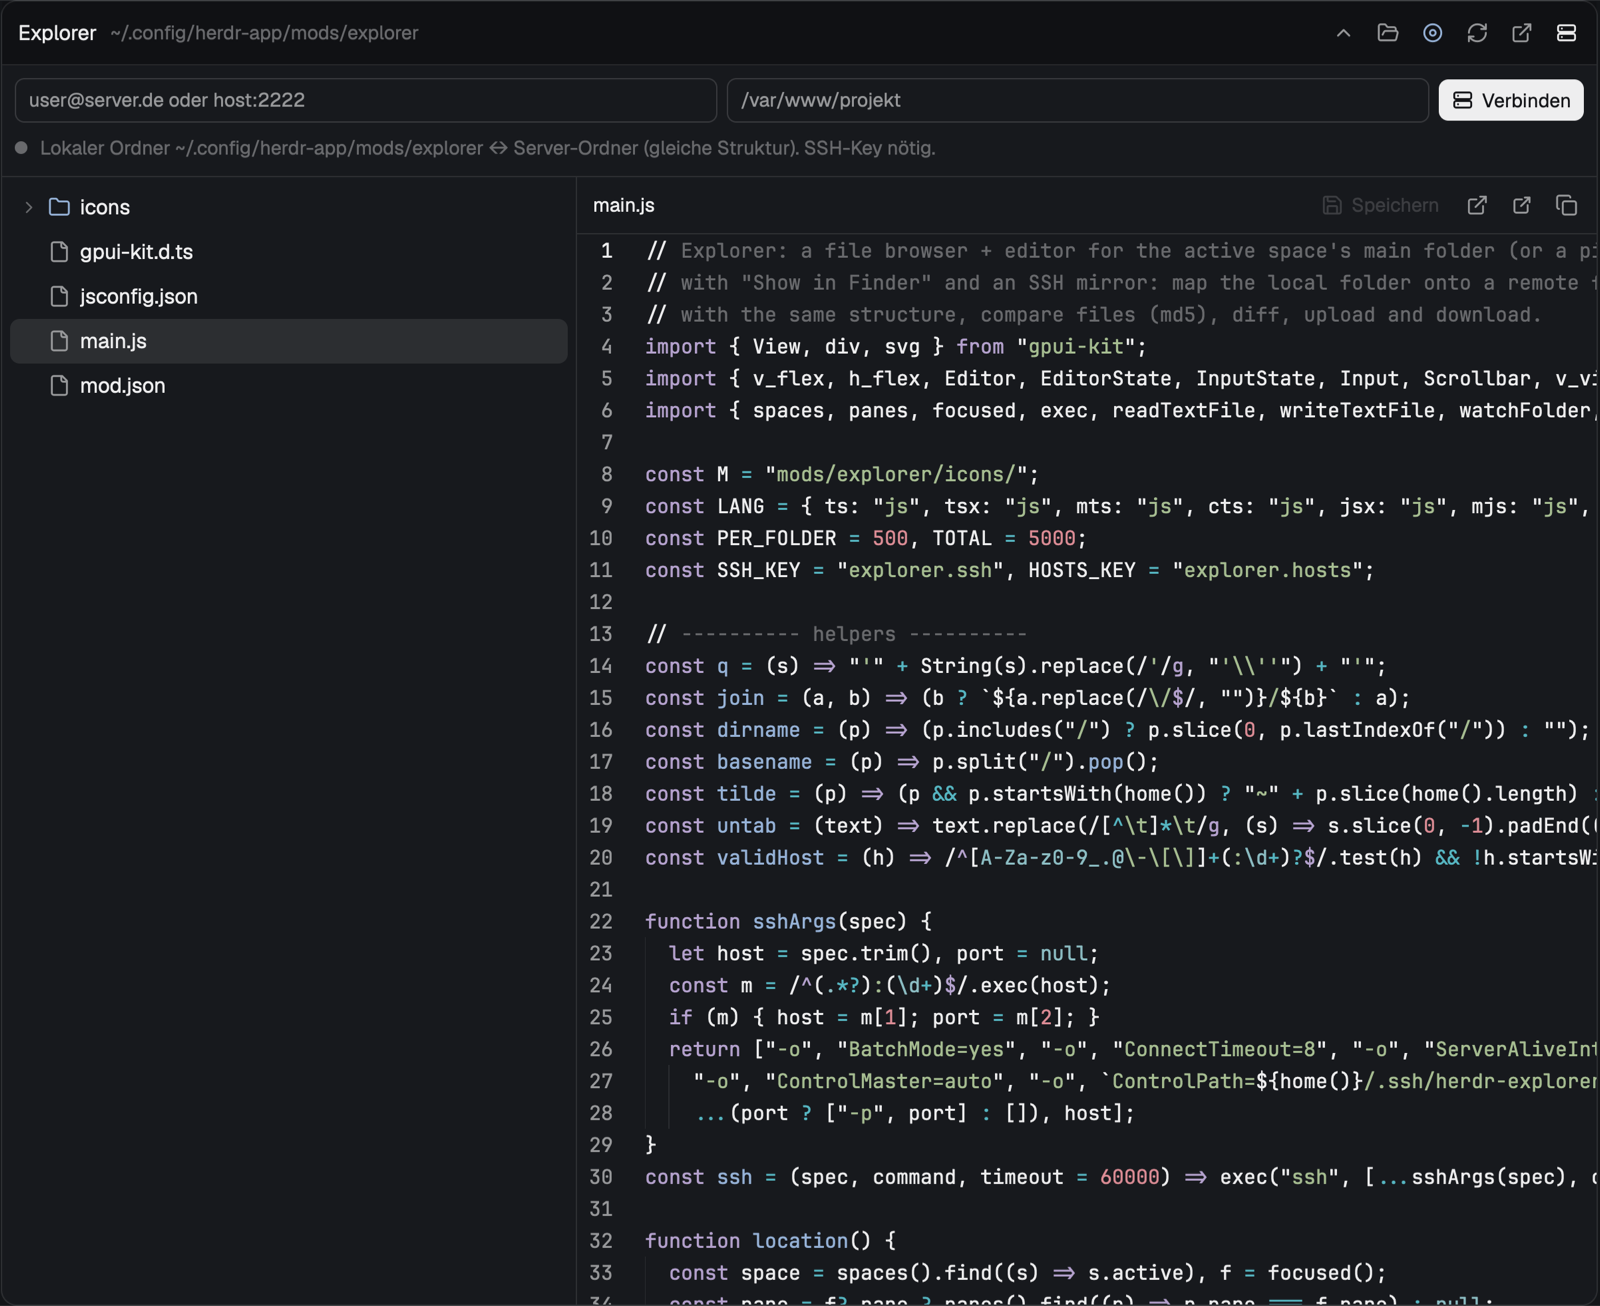
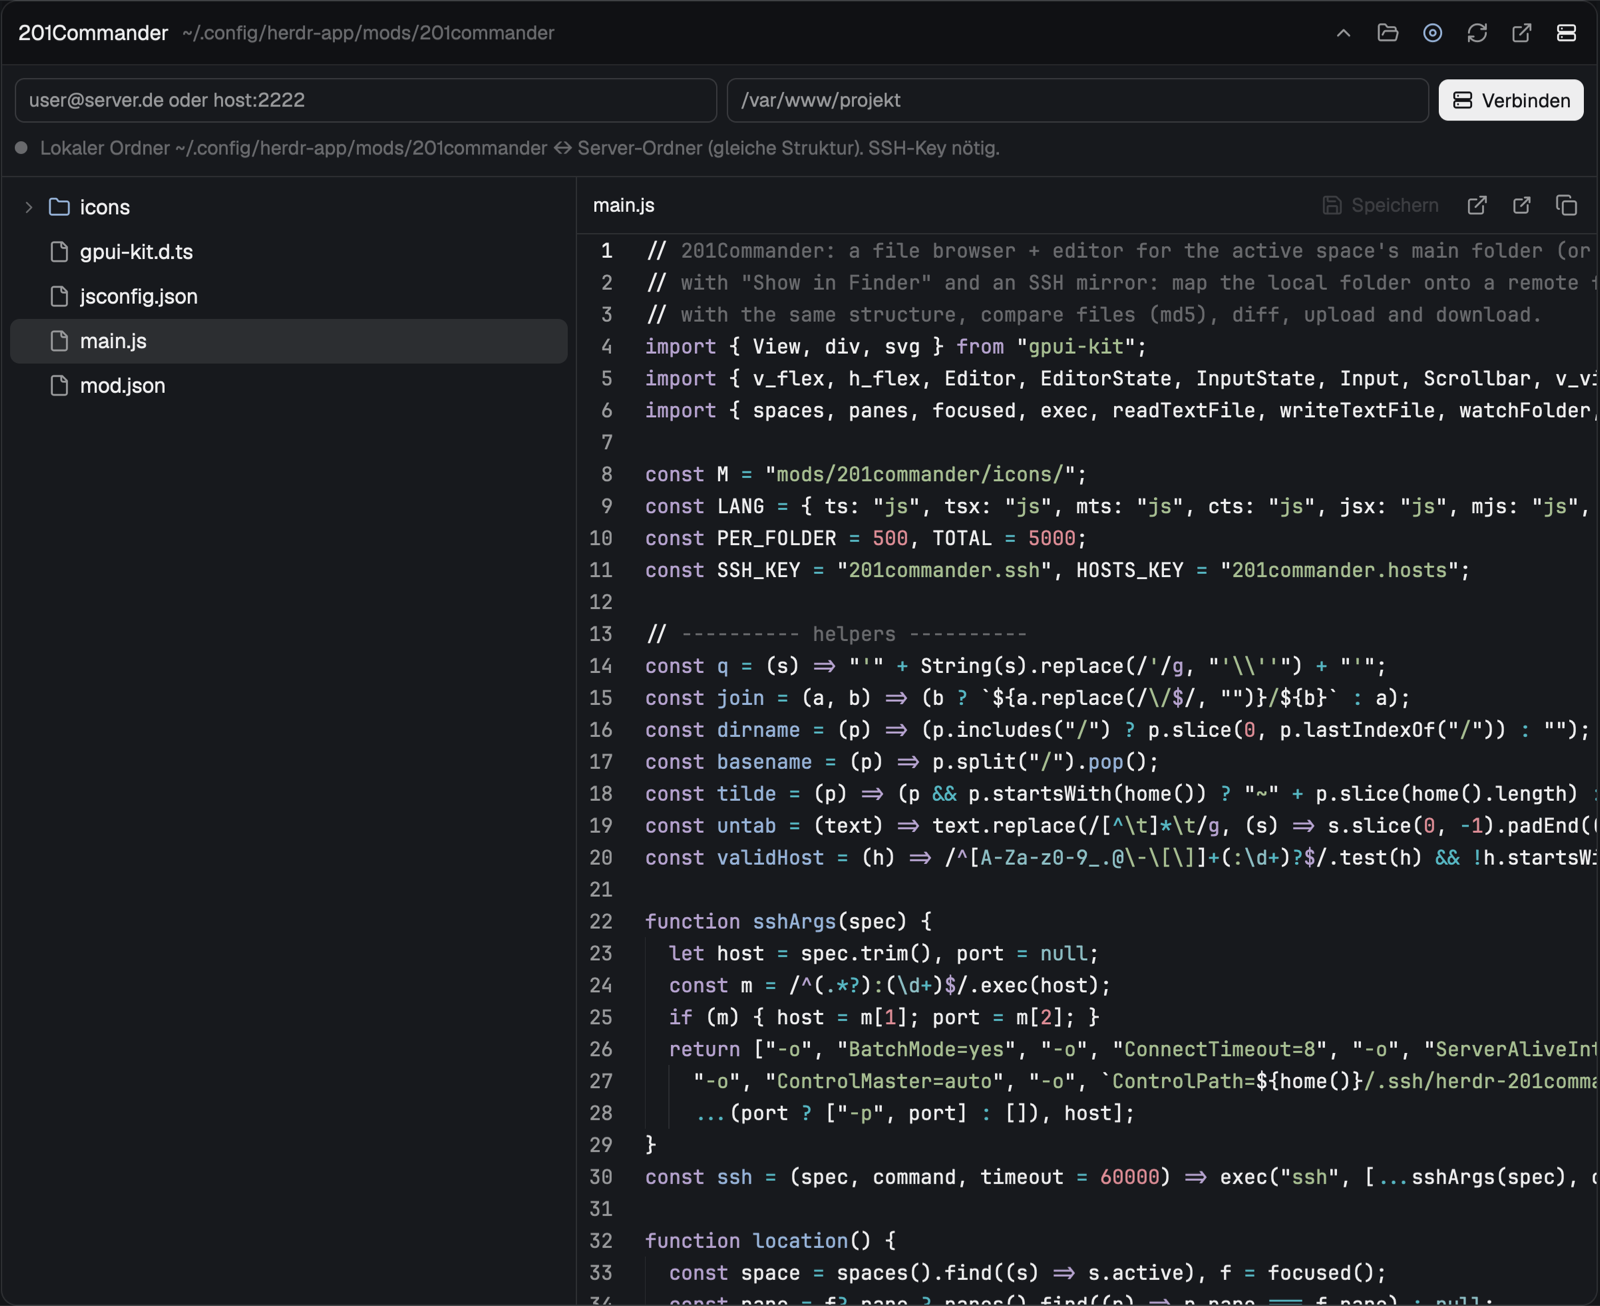
Rename to 201Commander

diff --git a/mods/201commander/main.js b/mods/201commander/main.js
@@ -1,14 +1,14 @@
-// Explorer: a file browser + editor for the active space's main folder (or a pinned one),
+// 201Commander: a file browser + editor for the active space's main folder (or a pinned one),
 // with "Show in Finder" and an SSH mirror: map the local folder onto a remote folder
 // with the same structure, compare files (md5), diff, upload and download.
 import { View, div, svg } from "gpui-kit";
 import { v_flex, h_flex, Editor, EditorState, InputState, Input, Scrollbar, v_virtual_list } from "gpui-base";
 import { spaces, panes, focused, exec, readTextFile, writeTextFile, watchFolder, theme, settings, pickFolder, shared, setShared, notify, props, closeOverlay, nextCommand, run, home, checking } from "herdr";
 
-const M = "mods/explorer/icons/";
+const M = "mods/201commander/icons/";
 const LANG = { ts: "js", tsx: "js", mts: "js", cts: "js", jsx: "js", mjs: "js", cjs: "js", toml: "yaml", yml: "yaml", jsonc: "json", svelte: "html", vue: "html", twig: "html", htm: "html", php: "php", sh: "bash", zsh: "bash" };
 const PER_FOLDER = 500, TOTAL = 5000;
-const SSH_KEY = "explorer.ssh", HOSTS_KEY = "explorer.hosts";
+const SSH_KEY = "201commander.ssh", HOSTS_KEY = "201commander.hosts";
 
 // ---------- helpers ----------
 const q = (s) => "'" + String(s).replace(/'/g, "'\\''") + "'";
@@ -24,7 +24,7 @@ function sshArgs(spec) {
   const m = /^(.*?):(\d+)$/.exec(host);
   if (m) { host = m[1]; port = m[2]; }
   return ["-o", "BatchMode=yes", "-o", "ConnectTimeout=8", "-o", "ServerAliveInterval=15",
-    "-o", "ControlMaster=auto", "-o", `ControlPath=${home()}/.ssh/herdr-explorer-%C`, "-o", "ControlPersist=300",
+    "-o", "ControlMaster=auto", "-o", `ControlPath=${home()}/.ssh/herdr-201commander-%C`, "-o", "ControlPersist=300",
     ...(port ? ["-p", port] : []), host];
 }
 const ssh = (spec, command, timeout = 60000) => exec("ssh", [...sshArgs(spec), command], { timeout });
@@ -42,7 +42,7 @@ const LIST = 'n=0; for p in "$1"/* "$1"/.[!.]* "$1"/..?*; do [ -e "$p" ] || [ -L
 const HASH = 'cd "$1" 2>/dev/null || exit 3; if command -v md5sum >/dev/null 2>&1; then h() { md5sum < "$1" | cut -c1-32; }; else h() { md5 -q "$1"; }; fi; n=0; for p in * .[!.]* ..?*; do [ -e "$p" ] || continue; [ "$p" = .git ] && continue; [ "$p" = .DS_Store ] && continue; if [ -d "$p" ]; then printf "d\\0%s\\0-\\0" "$p"; else printf "f\\0%s\\0%s\\0" "$p" "$(h "$p" 2>/dev/null)"; fi; n=$((n+1)); [ "$n" -gt 1000 ] && break; done; exit 0';
 
 async function listFolder(path, on) {
-  const r = await exec("sh", ["-c", LIST, "explorer", path], { on });
+  const r = await exec("sh", ["-c", LIST, "201commander", path], { on });
   if (r.code !== 0) throw new Error(r.stderr || "Ordner kann nicht gelesen werden");
   const f = r.stdout.split("\0"), out = [];
   for (let i = 0; i + 1 < f.length; i += 2) out.push({ name: f[i + 1], dir: f[i] === "d" });
@@ -69,7 +69,7 @@ function diffRows(text) {
 }
 
 // ---------- the view ----------
-export default class Explorer extends View {
+export default class Commander extends View {
   init(_props, cx) {
     this.handle = cx.focus_handle();
     this.pinned = null; this.gitRoots = new Map(); this.pendingRoots = [];
@@ -409,7 +409,7 @@ export default class Explorer extends View {
     const c = this.cfg(), args = sshArgs(c.host), remote = join(c.remote, rel), local = this.abs(rel);
     const work = () => dir
       ? exec("sh", ["-c", 'd=$1; shift; mkdir -p "$d" && ssh "$@" | tar -C "$d" -xf -', "x", dirname(local), ...args, `tar -C ${q(dirname(remote) || "/")} -cf - ${q("./" + basename(rel))}`], { timeout: 600000 })
-      : exec("sh", ["-c", 'f=$1; shift; mkdir -p "$(dirname "$f")" && ssh "$@" > "$f.explorer-part" && mv "$f.explorer-part" "$f" || { rm -f "$f.explorer-part"; exit 1; }', "x", local, ...args, `cat ${q(remote)}`], { timeout: 600000 });
+      : exec("sh", ["-c", 'f=$1; shift; mkdir -p "$(dirname "$f")" && ssh "$@" > "$f.201commander-part" && mv "$f.201commander-part" "$f" || { rm -f "$f.201commander-part"; exit 1; }', "x", local, ...args, `cat ${q(remote)}`], { timeout: 600000 });
     const go = () => this.transfer(`Lade ${basename(rel)} herunter…`, rel, async () => {
       const r = await work();
       if (r.code === 0 && this.file === rel) this.reload(cx);
@@ -544,7 +544,7 @@ export default class Explorer extends View {
   header(t, overlay) {
     const following = !(this.pinned && this.pinned.space === (spaces().find((s) => s.active)?.id ?? null));
     return h_flex().h(40).flex_none().pl(overlay ? 12 : 10).pr(6).gap(2).items_center().border_b(1).border_color(t.border).bg(t.chrome)
-      .child(div().font_semibold().pr(6).child("Explorer"))
+      .child(div().font_semibold().pr(6).child("201Commander"))
       .child(div().flex_1().min_w(0).truncate().text_size(12).text_color(t.dim).child(tilde(this.root) || "Kein Ordner"))
       .child(this.btn("h-up", "up", "Übergeordneter Ordner", (_e, cx) => this.root && this.setPinned(dirname(this.root) || "/", cx), t, { enabled: Boolean(this.root) && !this.on }))
       .child(this.btn("h-pick", "folder-open", "Ordner wählen…", (_e, cx) => cx.spawn(async (cx) => { const p = await pickFolder({ prompt: "Öffnen" }); if (p) this.setPinned(p, cx); }), t))
@@ -583,10 +583,10 @@ export default class Explorer extends View {
   tree(t) {
     const rows = this.rows("", 0, [], t);
     return div().flex_1().min_h(0).relative()
-      .child(v_flex().id("explorer-tree").absolute().inset_0().overflow_y_scroll().p(5).children(rows)
+      .child(v_flex().id("201commander-tree").absolute().inset_0().overflow_y_scroll().p(5).children(rows)
         .when(Boolean(this.error) || !rows.length, (e) => e.child(div().p(8).text_size(12).text_color(this.error ? t.ansi1 : t.dim).child(this.error || (this.loading ? "Lade…" : this.root ? "Leerer Ordner" : "Kein Ordner – Ordner wählen oder ein Terminal fokussieren"))))
         .when(this.limited, (e) => e.child(div().p(8).text_size(11).text_color(t.dim).child("Liste begrenzt auf 500 Einträge pro Ordner / 5.000 gesamt"))))
-      .child(Scrollbar.vertical("explorer-tree").absolute().inset_0());
+      .child(Scrollbar.vertical("201commander-tree").absolute().inset_0());
   }
 
   fileView(t, narrow) {
@@ -627,13 +627,13 @@ export default class Explorer extends View {
       .child(this.diffError ? div().p(12).text_size(12).text_color(t.ansi1).child(this.diffError)
         : !this.diff ? div().p(12).text_size(12).text_color(t.dim).child("Hole Server-Version…")
         : div().flex_1().min_h(0).relative().font_family(settings().font_family ?? "JetBrains Mono").text_size(11.5)
-          .child(v_virtual_list("explorer-diff", rows.length, 20, (i) => String(i), (range) => rows.slice(range.start, range.end).map(({ kind, number, text }) =>
+          .child(v_virtual_list("201commander-diff", rows.length, 20, (i) => String(i), (range) => rows.slice(range.start, range.end).map(({ kind, number, text }) =>
             kind === "@" ? div().w_full().px(10).h(20).flex_none().truncate().bg(t.raised).text_color(t.dim).child(text)
               : h_flex().w_full().h(20).flex_none().gap(10).when(kind === "+", (e) => e.bg(t.ansi2 + "1c")).when(kind === "-", (e) => e.bg(t.ansi1 + "1c"))
                 .child(div().w(34).flex_none().text_right().text_color(t.dim).child(number === undefined ? "" : String(number)))
                 .child(div().w(10).flex_none().text_color(kind === "+" ? t.ansi2 : kind === "-" ? t.ansi1 : t.dim).child(kind === " " ? "" : kind))
                 .child(div().flex_1().min_w(0).truncate().child(text)))).size_full())
-          .child(Scrollbar.vertical("explorer-diff").viewport_from_layout().absolute().inset_0()));
+          .child(Scrollbar.vertical("201commander-diff").viewport_from_layout().absolute().inset_0()));
   }
 
   footer(t) {
@@ -646,7 +646,7 @@ export default class Explorer extends View {
     }
     if (this.busy) return h_flex().flex_none().px(10).py(6).gap(8).items_center().border_t(1).border_color(t.border).text_size(12).text_color(t.muted)
       .child(div().text_color(t.working).frames(["⠋", "⠙", "⠹", "⠸", "⠼", "⠴", "⠦", "⠧", "⠇", "⠏"], 90)).child(div().flex_1().min_w(0).truncate().child(this.busy));
-    if (this.note) return h_flex().id("explorer-note").flex_none().px(10).py(6).gap(8).items_center().border_t(1).border_color(t.border).text_size(12)
+    if (this.note) return h_flex().id("201commander-note").flex_none().px(10).py(6).gap(8).items_center().border_t(1).border_color(t.border).text_size(12)
       .text_color(this.note.level === "error" ? t.ansi1 : t.muted).cursor_pointer().on_click((_e, cx) => { this.note = null; cx.notify(); })
       .child(div().flex_1().min_w(0).truncate().child(this.note.text)).child(div().text_color(t.dim).child("×"));
     return null;
@@ -660,7 +660,7 @@ export default class Explorer extends View {
     try { content = this.view === "diff" && this.diffFile ? this.diffView(t, !wide) : this.view === "file" && this.file ? this.fileView(t, !wide) : null; }
     catch (e) { content = div().p(12).text_size(12).text_color(t.ansi1).child(`Fehler: ${e?.message ?? e}`); }
     const footer = this.footer(t);
-    return v_flex().id("explorer").size_full().min_h(0).overflow_hidden().bg(t.background).text_color(t.foreground).text_size(13)
+    return v_flex().id("201commander").size_full().min_h(0).overflow_hidden().bg(t.background).text_color(t.foreground).text_size(13)
       .when(!overlay, (e) => e.rounded(10).border_1().border_color(t.border))
       .track_focus(this.handle)
       .on_size_change((size, cx) => {

diff --git a/RECIPE.md b/RECIPE.md
@@ -1,12 +1,12 @@
-# Explorer
+# 201Commander
 
 A file browser for Herdr that opens on the active space's main folder. Edit files in place, jump to Finder, and mirror the folder onto an SSH server with the same structure: compare files, view a diff, upload or download with one click. The UI is in German.
 
-![Explorer](preview.png)
+![201Commander](preview.png)
 
 **What you see:**
-- It works as a pane (`pane.split {mod: "explorer"}`, ⌘⇧E with the bundled `keys.json`), as a side panel block, or as a window (`mod.open explorer`; `mod.json` sets `overlay: {kind: "window", key: "explorer", width: 0.62, height: 0.82}`).
-- Header (40px, `chrome` background): the title "Explorer", the root path (shortened with `~`) and icon buttons. From left to right: parent folder, pick a folder, main folder / pin (crosshair in `accent` while on the space's main folder, pin in `blocked` while pinned), reload, open in Finder, SSH (green when connected, red on error), and × (only in a window).
+- It works as a pane (`pane.split {mod: "201commander"}`, ⌘⇧E with the bundled `keys.json`), as a side panel block, or as a window (`mod.open 201commander`; `mod.json` sets `overlay: {kind: "window", key: "201commander", width: 0.62, height: 0.82}`).
+- Header (40px, `chrome` background): the title "201Commander", the root path (shortened with `~`) and icon buttons. From left to right: parent folder, pick a folder, main folder / pin (crosshair in `accent` while on the space's main folder, pin in `blocked` while pinned), reload, open in Finder, SSH (green when connected, red on error), and × (only in a window).
 - SSH bar, toggled by the SSH button: inputs for the host (`user@host[:port]`) and the remote path, a "Verbinden" (connect) button, a status dot, the counters `≠ n` (differs), `↑ n` (local only) and `↓ n` (server only), re-compare, and "Alle hoch" (upload all).
 - Tree (28px rows): chevron, folder/file icon, name, git mark (A/M/D/U) and compare badge (`≠` in `blocked`, `↑` in `ansi2`, `↓` in `ansi4`). Server-only entries are dimmed. The selected row shows its actions: Finder, terminal here, diff, get the server version, upload.
 - At 760px or wider, the tree sits on the left (240–360px) with the editor or diff on the right, and long lines scroll. Narrower, one view shows at a time with a back arrow, and the editor soft-wraps.
@@ -18,15 +18,15 @@ A file browser for Herdr that opens on the active space's main folder. Edit file
 - Root: the git top level of the first terminal in the active space, else that terminal's folder, else `space.folder`. This is the folder Herdr names the space after. It changes with the space.
 - Moving the root by hand (↑, double-click a folder, pick a folder) lasts until the space changes. The pin button goes back to the main folder.
 - ⌘S saves through `writeTextFile` with the original text as `expected`. If the file changed on disk, a conflict bar offers Reload or Overwrite.
-- SSH mappings live in shared state under `explorer.ssh` as `{localRoot: {host, remote}}`. Subfolders inherit the mapping, and recent hosts are kept in `explorer.hosts`. Opening a mapped folder reconnects automatically.
+- SSH mappings live in shared state under `201commander.ssh` as `{localRoot: {host, remote}}`. Subfolders inherit the mapping, and recent hosts are kept in `201commander.hosts`. Opening a mapped folder reconnects automatically.
 - Compare: one md5 listing per open folder, both local and remote (`md5sum`, else `md5 -q`). It runs on connect, when a folder is expanded, after a save, and after a transfer.
 - Overwrites (an upload over `≠`, a download over a local file, bulk upload) ask first in the footer.
 
-**Built from:** one mod, `explorer`: `main.js`, `mod.json` (`focusable`, window overlay) and Lucide-style `icons/*.svg`.
-- `herdr` API: `exec` (running `sh`, `ssh`, `tar`, `diff`, `open`, `pbcopy` and `git`), `readTextFile`, `writeTextFile`, `watchFolder`, `pickFolder`, `shared`/`setShared`, `nextCommand` (`explorer.save`, `focus`) and `run("terminal.open")`.
-- SSH runs with `BatchMode=yes` and a ControlMaster socket at `~/.ssh/herdr-explorer-%C` with `ControlPersist=300`.
+**Built from:** one mod, `201commander`: `main.js`, `mod.json` (`focusable`, window overlay) and Lucide-style `icons/*.svg`.
+- `herdr` API: `exec` (running `sh`, `ssh`, `tar`, `diff`, `open`, `pbcopy` and `git`), `readTextFile`, `writeTextFile`, `watchFolder`, `pickFolder`, `shared`/`setShared`, `nextCommand` (`201commander.save`, `focus`) and `run("terminal.open")`.
+- SSH runs with `BatchMode=yes` and a ControlMaster socket at `~/.ssh/herdr-201commander-%C` with `ControlPersist=300`.
 - Uploads: a file goes as `ssh host 'mkdir -p dir && cat > file' < local`. A folder goes as `tar | ssh tar -x`, without `.git` and `.DS_Store`. Downloads use the reverse.
-- The optional `keys.json` binds ⌘⇧E to `pane.split` with the mod, and ⌘S inside the mod to `explorer.save`.
+- The optional `keys.json` binds ⌘⇧E to `pane.split` with the mod, and ⌘S inside the mod to `201commander.save`.
 
 **Watch out:**
 - SSH needs key or agent authentication. There is no password prompt (BatchMode).
@@ -38,7 +38,7 @@ A file browser for Herdr that opens on the active space's main folder. Edit file
 - Compare covers only the folders that are open, up to 1,000 entries each.
 
 **Done when:**
-- `herdr-app check mods/explorer` passes.
+- `herdr-app check mods/201commander` passes.
 - The pane opens on the space's repository root.
 - Clicking a file shows it with the full height, and typing then ⌘S writes it.
 - Finder reveals the file.
